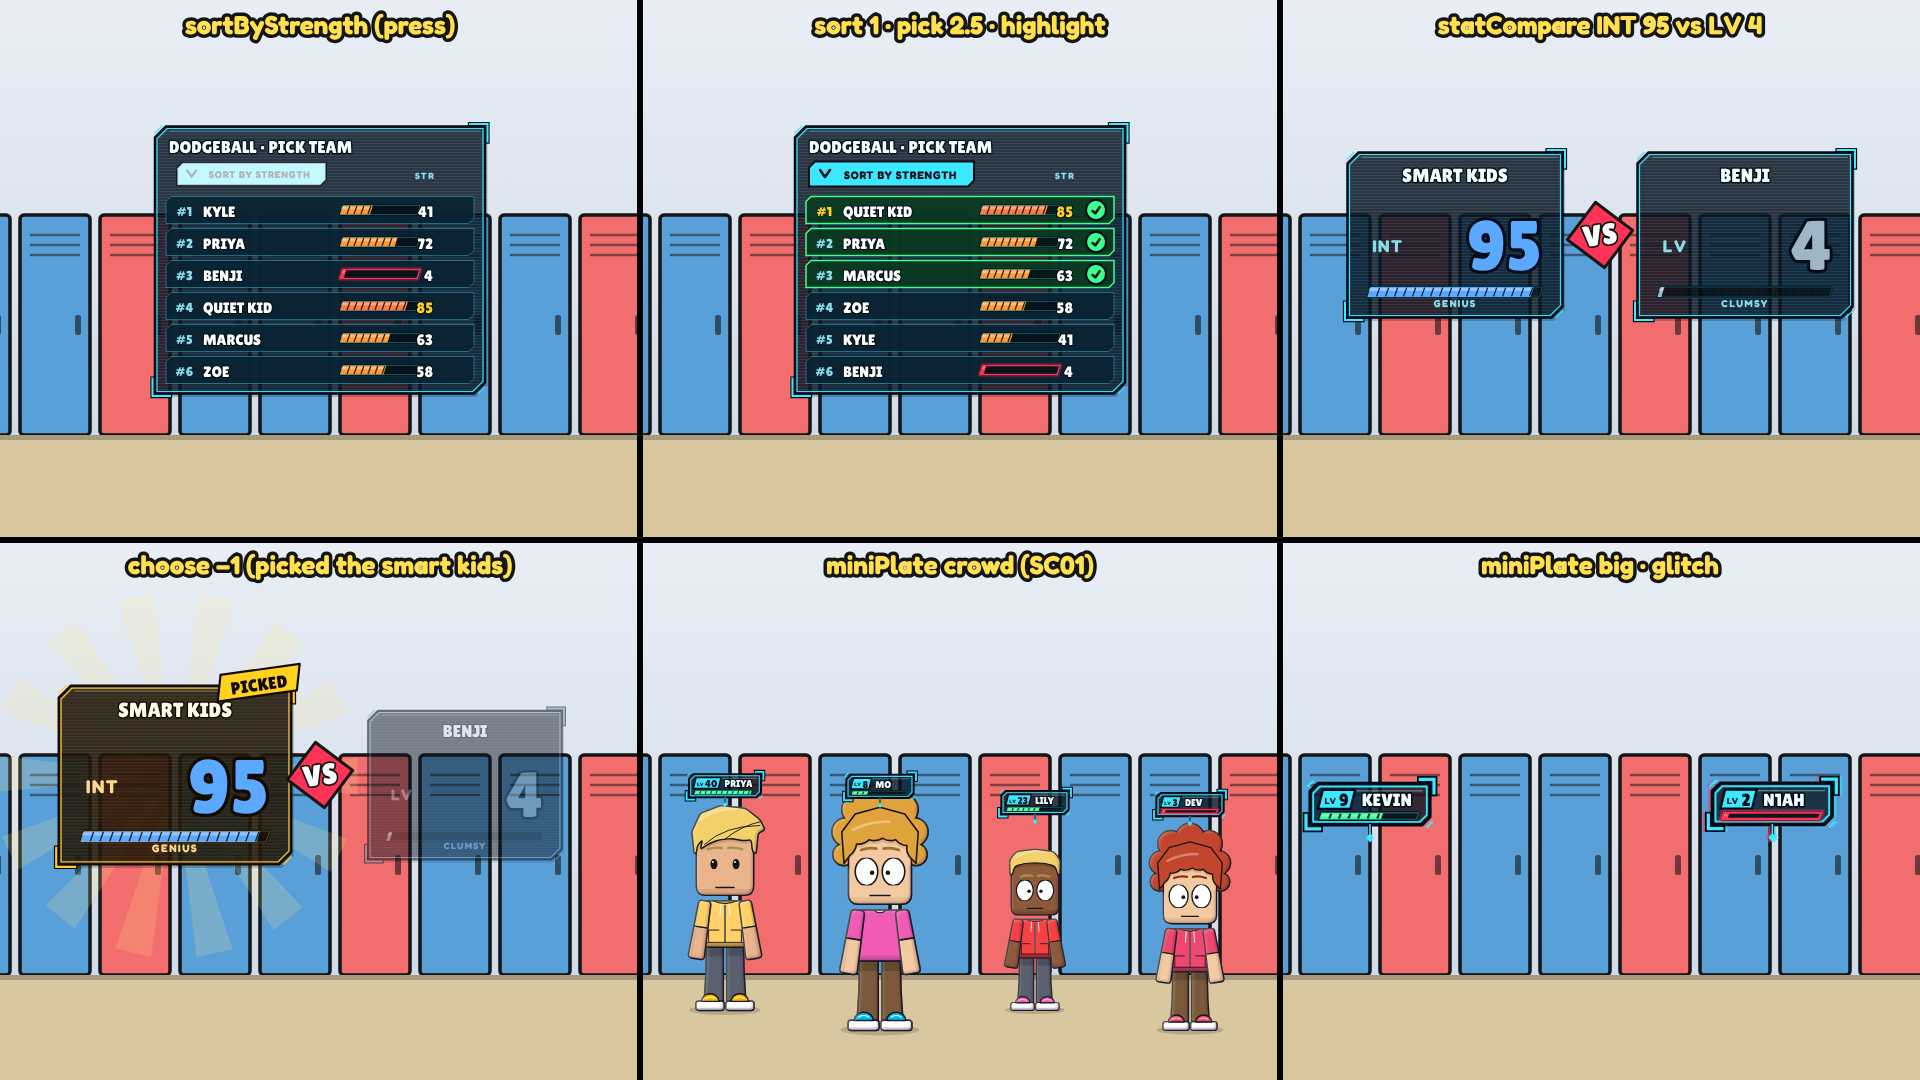
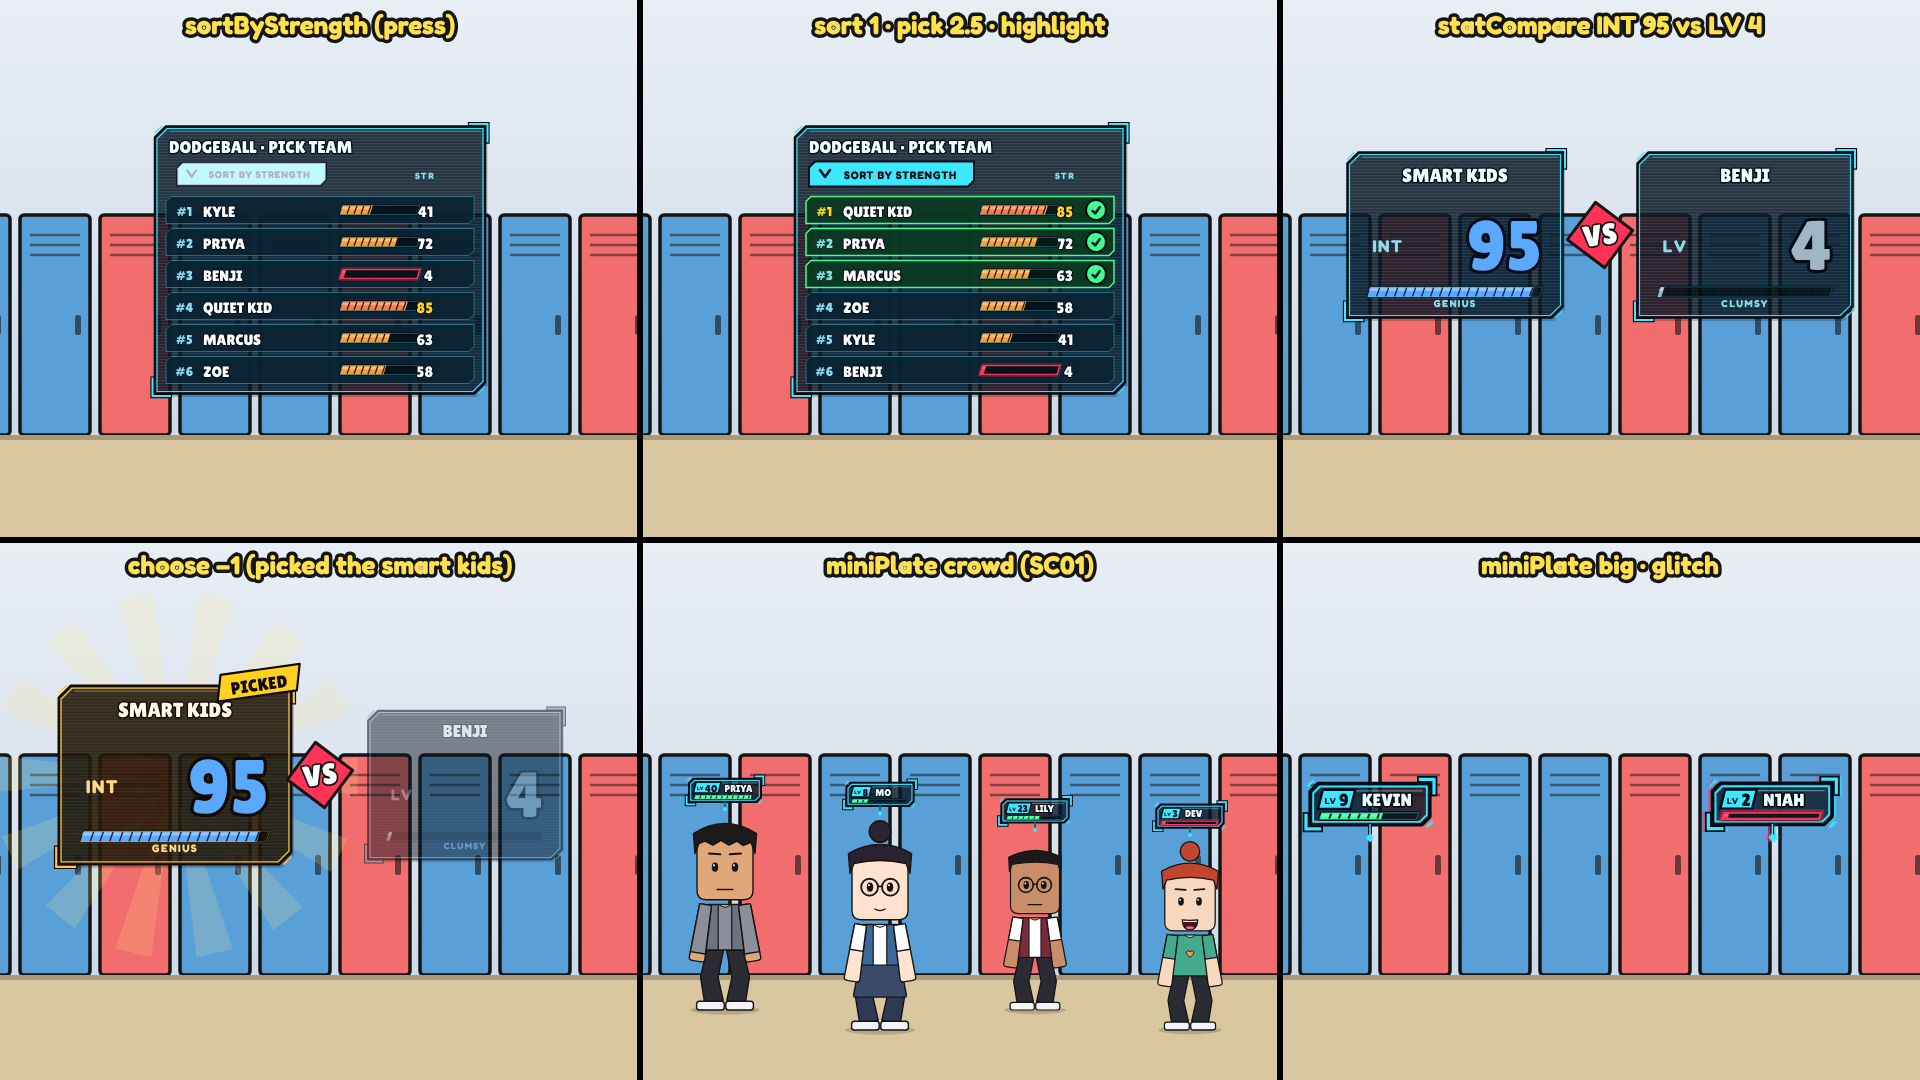
Stats: HUD plates use the cast's real head anchors; sheets with real cast
Claude-Session: https://claude.ai/code/session_01KRjzSfrZpgfkUyxGDDGG7C

Changed region(s): [[0.3438, 0.7028, 0.5625, 0.9778], [0.5938, 0.7333, 0.6562, 0.9472]]

diff --git a/stats/rig/cast.js b/stats/rig/cast.js
@@ -264,6 +264,13 @@ function held(dsg, p, side, fn, grip = 236, layer) {
   return { svg: fn(h[0], h[1]), layer: layer || layerFor(viewOf(p)) };
 }
 const bentArms = (p) => !!(p.bendL || p.bendR);
+// default arm angle + elbow bend for a held prop: front / back view use `side` (+1 = armR); the side view uses the near arm (armL),
+// where + bends forward. Explicit pose fields always win.
+function armPose(p, side, front, sideView) {
+  if (viewOf(p) === 'side') return sideView ? { armL: sideView[0], bendL: sideView[1], ...p } : p;
+  return side < 0 ? { armL: front[0], bendL: front[1], ...p } : { armR: front[0], bendR: front[1], ...p };
+}
+const handSide = (p, side) => (viewOf(p) === 'side' ? -1 : side);
 
 // ================================================================= draw functions + options
 const draw = {};
@@ -313,17 +320,18 @@ draw.mom = (pose = {}) => {
   const props = [];
   if (pose.coffee) {
     const sip = pose.coffee === 'sip';
-    p = sip ? { armR: 140, bendR: 175, ...p } : { armR: 22, bendR: -128, ...p };
-    props.push(held(d, p, view === 'side' ? -1 : 1, (x, y) => X.coffeeMug({ x: x + (sip ? -10 : 0), y: y - 46, s: 0.62, t: pose.t || 0, steam: pose.asleep ? 0 : 1 }), 250));
+    p = sip ? armPose(p, 1, [140, 175], [120, 120]) : armPose(p, 1, [22, -128], [30, 80]);
+    props.push(held(d, p, handSide(p, 1), (x, y) => X.coffeeMug({ x: x + (sip ? -10 : 0), y: y - 46, s: 0.62, t: pose.t || 0, steam: pose.asleep ? 0 : 1 }), 250));
   }
   if (pose.phone) {
     const ear = pose.phone === 'ear';
-    p = ear ? (view === 'side' ? { armL: 150, bendL: 30, ...p } : { armL: 140, bendL: 175, ...p }) : { armL: 20, bendL: -126, ...p };
-    props.push(held(d, p, view === 'side' ? 1 : -1, (x, y) => X.phone({ x: x + (ear ? 6 : 0), y: y - (ear ? 40 : 60), s: 0.5, rot: ear ? 10 : -6, face: ear ? 'back' : (pose.phoneFace || 'back'), screen: pose.screen || null })));
+    p = ear ? armPose(p, -1, [140, 175], [160, 150]) : armPose(p, -1, [20, -126], [40, 70]);
+    const sv = viewOf(p) === 'side';
+    props.push(held(d, p, handSide(p, -1), (x, y) => X.phone({ x: x + (ear ? (sv ? 10 : 6) : 0), y: y - (ear ? (sv ? 110 : 40) : 60), s: 0.5, rot: ear ? (sv ? -10 : 10) : -6, face: ear ? 'back' : (pose.phoneFace || 'back'), screen: pose.screen || null })));
   }
   if (pose.pan) {
-    p = { armR: 70, bendR: -30, ...p };
-    props.push(held(d, p, view === 'side' ? -1 : 1, (x, y) => X.fryingPan({ x, y, s: 0.7, rot: 30 })));
+    p = armPose(p, 1, [70, -30], [80, 20]);
+    props.push(held(d, p, handSide(p, 1), (x, y) => X.fryingPan({ x, y, s: 0.7, rot: viewOf(p) === 'side' ? 0 : 30 })));
   }
   const flour = pose.flour ?? (pose.dayoff ? 0 : 0.5);
   return withState({ flour, tired, t: pose.t || 0 }, () => drawWith(d, p, props));
@@ -367,12 +375,12 @@ draw.max = (pose = {}) => {
   if (down) d = withUnder(d, (face, t, shade, v) => (v === 'front' ? L7.hoodDownBehind(MAX_COL, 'front') : ''));
   const props = [];
   if (pose.balloon) {
-    p = { armR: view === 'side' ? 70 : 34, ...p };
-    props.push(held(d, p, view === 'side' ? -1 : 1, (x, y) => X.dinoBalloon({ x, y, s: 1.3, t: pose.t || 0, string: 560 }), 236, 'front'));
+    p = armPose(p, 1, [34, 0], [50, 0]);
+    props.push(held(d, p, handSide(p, 1), (x, y) => X.dinoBalloon({ x, y, s: 1.3, t: pose.t || 0, string: 560 }), 236, 'front'));
   }
   if (pose.tablet) {
-    p = { armL: 30, armR: 30, bendL: -110, bendR: -110, ...p };
-    props.push({ svg: X.tablet({ x: turnOf(p) * 40, y: -440, s: 0.62, face: pose.tabletFace || 'screen', screen: pose.screen || null, glow: pose.glow ?? 1 }), layer: 'front' });
+    p = view === 'side' ? { armL: 40, bendL: 60, ...p } : { armL: 30, armR: 30, bendL: -110, bendR: -110, ...p };
+    props.push({ svg: X.tablet({ x: view === 'side' ? -170 : turnOf(p) * 40, y: -440, s: view === 'side' ? 0.5 : 0.62, face: view === 'side' ? 'back' : (pose.tabletFace || 'screen'), screen: pose.screen || null, glow: pose.glow ?? 1, rot: view === 'side' ? 0 : 0 }), layer: layerFor(view) });
   }
   return withState({ hoodDown: down, t: pose.t || 0 }, () => drawWith(d, p, props));
 };
@@ -401,16 +409,16 @@ draw.benji = (pose = {}) => {
   }
   if (pose.books) {
     const fall = pose.books === 'drop' ? clamp(pose.bookFall ?? 1, 0, 1) : 0;
-    p = { armL: 22, armR: 22, bendL: -116, bendR: -116, ...p };
-    props.push({ svg: X.bookStack({ x: turnOf(p) * 30 + (view === 'side' ? -120 : 0), y: -330, s: 0.62, n: 5, fall, t: pose.t || 0 }), layer: layerFor(view) });
+    p = view === 'side' ? { armL: 34, bendL: 70, ...p } : { armL: 22, armR: 22, bendL: -116, bendR: -116, ...p };
+    props.push({ svg: X.bookStack({ x: turnOf(p) * 30 + (view === 'side' ? -150 : 0), y: -330, s: 0.62, n: 5, fall, t: pose.t || 0 }), layer: layerFor(view) });
   }
   if (pose.potato) {
-    p = { armL: 30, armR: 30, bendL: -100, bendR: -100, ...p };
-    props.push({ svg: X.potatoBattery({ x: turnOf(p) * 30 + (view === 'side' ? -120 : 0), y: -350, s: 0.42, glow: pose.glow ?? 0.3, t: pose.t || 0, sign: false }), layer: layerFor(view) });
+    p = view === 'side' ? { armL: 40, bendL: 60, ...p } : { armL: 30, armR: 30, bendL: -100, bendR: -100, ...p };
+    props.push({ svg: X.potatoBattery({ x: turnOf(p) * 30 + (view === 'side' ? -190 : 0), y: -350, s: 0.42, glow: pose.glow ?? 0.3, t: pose.t || 0, sign: false }), layer: layerFor(view) });
   }
   if (pose.map) {
-    p = { armL: 34, armR: 34, bendL: -80, bendR: -80, ...p };
-    props.push({ svg: X.fairMap({ x: turnOf(p) * 30 + (view === 'side' ? -130 : 0), y: -440, s: 0.62, fold: view === 'side' ? 0.7 : 0, back: view === 'back' }), layer: layerFor(view) });
+    p = view === 'side' ? { armL: 60, bendL: 40, ...p } : { armL: 34, armR: 34, bendL: -80, bendR: -80, ...p };
+    props.push({ svg: X.fairMap({ x: turnOf(p) * 30 + (view === 'side' ? -220 : 0), y: -440, s: view === 'side' ? 0.5 : 0.62, fold: view === 'side' ? 0.8 : 0, back: view === 'back' }), layer: layerFor(view) });
   }
   return withState({ laces: pose.laces !== false, t: pose.t || 0 }, () => drawWith(d, p, props));
 };
@@ -423,7 +431,7 @@ draw.tank = (pose = {}) => {
   const view = viewOf(pose);
   let d = D.tank, p = pose;
   if (pose.shy) {
-    p = { armL: 16, armR: 16, bendL: -120, bendR: -112, headRot: 6, lean: 3, ...p };
+    p = view === 'side' ? { armL: 20, bendL: 70, headRot: 6, lean: 3, ...p } : { armL: 16, armR: 16, bendL: -120, bendR: -112, headRot: 6, lean: 3, ...p };
     p.face = faceWith(p.face || 'nervous', { brows: { L: [-46, 8], R: [-46, 8] }, eyes: { look: [0.2, 0.6], pupil: 1.1 }, fx: ['blush'], mouth: (p.face && p.face.mouth) || undefined });
     if (!p.face.mouth) delete p.face.mouth;
   }
@@ -436,12 +444,12 @@ draw.tank = (pose = {}) => {
     rider = draw.you({ x: c.x, y: c.y, s: c.s, legL: 74, legR: 74, kneeL: 80, kneeR: 80, armL: 40, armR: 150, face: 'joy', shadow: false, flip: false, ...rp, view: 'front' });
   }
   if (pose.lunch) {
-    p = { armR: view === 'side' ? 20 : 14, ...p };
-    props.push(held(d, p, view === 'side' ? -1 : 1, (x, y) => X.lunchBag({ x, y: y + 6, s: 0.62, name: pose.lunchName || '' }), 250));
+    p = armPose(p, 1, [14, 0], [20, 0]);
+    props.push(held(d, p, handSide(p, 1), (x, y) => X.lunchBag({ x, y: y + 6, s: 0.62, name: pose.lunchName || '' }), 250));
   }
   if (pose.sandwich || pose.ketchupLunch) {
-    p = { armR: 22, bendR: -118, ...p };
-    props.push(held(d, p, view === 'side' ? -1 : 1, (x, y) => X.sandwich({ x: x - 10, y: y - 30, s: 0.62, ketchup: !!pose.ketchupLunch, bite: pose.bite || 0 }), 250, 'front'));
+    p = armPose(p, 1, [22, -118], [30, 80]);
+    props.push(held(d, p, handSide(p, 1), (x, y) => X.sandwich({ x: x - 10, y: y - 30, s: 0.62, ketchup: !!pose.ketchupLunch, bite: pose.bite || 0 }), 250, 'front'));
   }
   return drawWith(d, p, props) + rider;
 };
@@ -467,12 +475,12 @@ draw.teacher = (pose = {}) => {
     props.push({ svg: X.pointer({ x: h[0], y: h[1], s: 0.9, rot }), layer: layerFor(view) });
   }
   if (pose.papers) {
-    p = { armL: 24, bendL: -110, ...p };
-    props.push(held(d, p, view === 'side' ? 1 : -1, (x, y) => X.paperStack({ x: x + (view === 'side' ? -40 : 40), y: y - 30, s: 0.6, rot: -8 }), 236, 'front'));
+    p = armPose(p, -1, [24, -110], [36, 70]);
+    props.push(held(d, p, handSide(p, -1), (x, y) => X.paperStack({ x: x + (view === 'side' ? -40 : 40), y: y - 30, s: 0.6, rot: -8 }), 236, 'front'));
   }
   if (pose.redPen) {
-    p = { armR: 30, bendR: -60, ...p };
-    props.push(held(d, p, view === 'side' ? -1 : 1, (x, y) => X.redPen({ x, y: y - 10, s: 0.8, rot: -50 })));
+    p = armPose(p, 1, [30, -60], [40, 60]);
+    props.push(held(d, p, handSide(p, 1), (x, y) => X.redPen({ x, y: y - 10, s: 0.8, rot: -50 })));
   }
   return withState({ glare, t: pose.t || 0 }, () => drawWith(d, p, props));
 };
@@ -483,8 +491,8 @@ draw.lunchLady = (pose = {}) => {
   let p = pose;
   const props = [];
   if (pose.ladle !== false) {
-    p = { armR: 40, bendR: -40, ...p };
-    props.push(held(D.lunchLady, p, view === 'side' ? -1 : 1, (x, y) => X.ladle({ x, y: y + 10, s: 0.55, rot: -10 })));
+    p = armPose(p, 1, [40, -40], [40, 40]);
+    props.push(held(D.lunchLady, p, handSide(p, 1), (x, y) => X.ladle({ x, y: y + 10, s: 0.55, rot: -10 })));
   }
   return drawWith(D.lunchLady, p, props);
 };

diff --git a/stats/tools/hud_sheet.js b/stats/tools/hud_sheet.js
@@ -64,7 +64,7 @@ const hero = (t, pose = {}, act = {}) => K.actor('you', t, { s: 0.5, ...pose }, 
 const STATS_CAST = !!(K.draw.grandpa && K.draw.benji && K.draw.tank);   // the new cast is in place
 function person(key, i, pose) {
   if (STATS_CAST && K.draw[key]) { try { return K.actor(key, pose.t || 0, ['kid', 'adult'].includes(key) ? { i, ...pose } : pose); } catch (e) { /* fall through */ } }
-  const kid = ['benji', 'max', 'kid', 'tank'].includes(key);
+  const kid = ['benji', 'max', 'kid', 'tank'].includes(key) && K.draw.humanKid;
   return (kid ? K.draw.humanKid : K.draw.adult)(i, { ...pose, s: (pose.s || 0.5) * (key === 'max' ? 0.72 : key === 'tank' ? 1.22 : 1) });
 }
 // tiles: svg strings or { svg, vb: [x, y, w, h] } (a crop of the 1920x1080 frame); labels at the top (or bottom with lblBottom)
@@ -155,7 +155,7 @@ SHEETS.overview = () => {
   const c = () => {   // SC08 fair: overload
     let o = bgFair();
     const faces = [];
-    for (let i = 0; i < 5; i++) { const p = cast('adult', i + 2, { x: 250 + i * 360, y: 1000, s: 0.5, t }); o += p.svg; faces.push({ x: p.head.x, y: p.head.y + 75, r: 66 }); }
+    for (let i = 0; i < 5; i++) { const p = cast('adult', i + 2, { x: 250 + i * 360, y: 1000, s: 0.5, t }); o += p.svg; faces.push({ x: p.head.x, y: p.head.y + 95, r: 66 }); }
     o += hero(t, { x: 960, y: 1090, s: 0.6, face: 'scared' });
     o += H.numbersFlood({ t, k: 0.68, faces });
     o += H.questArrow({ x: 960, y: 1020, t, glitch: 1, s: 0.9 });
@@ -239,11 +239,11 @@ SHEETS.overload = () => {
   const fair = (k) => {
     let o = bgFair();
     const faces = [];
-    for (let i = 0; i < 5; i++) { const x = 250 + i * 360, y = 1000; o += K.draw.adult(i + 2, { x, y, s: 0.5 }); faces.push({ x, y: y - 0.5 * 1043 + 105, r: 66 }); }
+    for (let i = 0; i < 5; i++) { const p = cast('adult', i + 2, { x: 250 + i * 360, y: 1000, s: 0.5, t }); o += p.svg; faces.push({ x: p.head.x, y: p.head.y + 95, r: 66 }); }
     return o + H.numbersFlood({ t, k, faces });
   };
   const hudLayer = (tt = t) => H.hudFrame({ t: tt }) + H.plateFor('tank', { x: 520, y: 520, t: tt }) + H.plateFor('mom', { x: 1350, y: 560, t: tt }) + H.xpBar({ t: tt, value: 0.7, level: 20 });
-  const bench = () => { let o = bgFair(); o += hero(t, { x: 760, y: 1000, s: 0.55, face: 'sad' }) + person('grandpa', 2, { x: 1160, y: 1000, s: 0.55, t }); return o; };
+  const bench = () => { let o = bgFair(); o += hero(t, { x: 760, y: 1000, s: 0.55, face: 'sad' }) + person('grandpa', 2, { x: 1160, y: 1000, s: 0.5, t }); return o; };
   const tiles = [
     fair(0.3), fair(0.65), fair(1),
     bench() + H.hudGlitch(hudLayer(), t, 0.6),
@@ -262,7 +262,7 @@ SHEETS.montage = () => {
   const gym = () => bgHall();
   const crowd = () => {
     let o = bgHall();
-    for (let i = 0; i < 6; i++) { const x = 180 + i * 310, y = 980 - (i % 2) * 40, s = 0.42 + (i % 3) * 0.04; o += K.draw.humanKid(i, { x, y, s }); o += H.miniPlate({ x, y: y - 880 * s - 6, s: 0.9, t, name: ['JAKE', 'PRIYA', 'MO', 'LILY', 'DEV', 'SAM'][i], level: [12, 40, 8, 23, 3, 61][i], hp: [0.8, 0.95, 0.3, 0.6, 0.08, 1][i] }); }
+    for (let i = 0; i < 6; i++) { const p = cast('kid', i, { x: 180 + i * 310, y: 980 - (i % 2) * 40, s: 0.42 + (i % 3) * 0.04, t }); o += p.svg + H.miniPlate({ ...p.head, s: 0.9, t, name: ['JAKE', 'PRIYA', 'MO', 'LILY', 'DEV', 'SAM'][i], level: [12, 40, 8, 23, 3, 61][i], hp: [0.8, 0.95, 0.3, 0.6, 0.08, 1][i] }); }
     return o;
   };
   const tiles = [

diff --git a/stats/docs/HUD.md b/stats/docs/HUD.md
@@ -36,9 +36,10 @@ Rebuild: `node tools/hud_sheet.js` (see the end).
   when you want it crisp and constant-size (compute the head's screen point yourself), or **inside** it at world coords to
   have it zoom with the camera (strokes scale too — fine for push-ins).
 - **Anchors.** Over-head helpers (`statPlate`, `miniPlate`, `heroPlate`, `lieMeter`) take `(x, y)` = **the top of the head**;
-  the plate floats `lift` px above with its tether. `H.overHead(who, x, y, s, dy)` → `{ x, y }` from an actor's feet and scale.
-  Its head-top table `H.HEAD_TOP` is **approximate** (the stats cast was drawn in parallel; `you` is measured, 960 body units):
-  use the head anchors in `docs/CAST.md` when that exists, or pass `dy` / your own y.
+  the plate floats `lift` px above with its tether. Get that point with `H.overHead(who, x, y, s, dy, pose)` — it asks the cast's
+  `require('../rig/cast').headTop(key, pose)` (exact: sizes, hoods, Grandpa's day-off hat, Biscuit `pose: 'sit'|'walk'|'beg'|'sleep'`,
+  kid/adult variant `i`), passing the same pose fields you give `actor()` (`lift`, `bodyY`, `headY`, `hood`, `dayoff`, `pose`, `i`).
+  `H.HEAD_TOP` (body units at s 1) is only the fallback. Face centres (for `numbersFlood` faces) ≈ head top + 190·s.
 - **Time.** Animated helpers take `k` (0..1 pop-in / progress, overshoot built in; running `k` back to 0 folds them away), `out`
   or `fade` (0..1 leave), `age` (seconds since an event) and/or `t` (the clock: bob, blink, sheen, radar sweep). Derive them from
   the voice: `k: seg(t, L(id).word('Hungry').t0 - 0.1, L(id).word('Hungry').t0 + 0.35)`, `age: t - L('05.8').a`.
@@ -114,8 +115,12 @@ and dissolve while the glass warms from cyan to honey; 0.45–0.6 a soft flash, 
 brackets, no cut corners), a heart badge pops; 0.5–0.9 **BIG BROTHER** fades in letter by letter (rising, settling); warm
 glow + golden motes drift up; the heart beats. No level, no numbers. Give the whole reveal **3–4 s** (see the recipe).
 
-### `H.overHead(who, x, y, s = 0.5, dy = 0)` → `{ x, y }`
-Head-top point for an actor drawn with feet `(x, y)` and scale `s` (`who` a cast key or a number = body-unit height).
+### `H.overHead(who, x, y, s = 0.5, dy = 0, pose = {})` → `{ x, y }`
+Head-top point (+6 px of air) for a cast member drawn with feet `(x, y)` and scale `s`: delegates to `rig/cast.js`
+`headTop(key, { ...pose, x, y, s })` (all cast keys: you, mom, grandpa, max, biscuit, benji, tank, teacher (`krump` alias),
+lunchLady, coach, neighbor, fairWorker, kid (pose.i), adult (pose.i)); falls back to `H.HEAD_TOP`. `who` may be a number = head
+height in body units. Example: `H.plateFor('tank', { ...H.overHead('tank', tx, ty, 0.5), s: 0.95, k, t })`;
+Biscuit begging: `H.overHead('biscuit', dx, dy, 0.6, 0, { pose: 'beg' })`.
 
 ---
 
@@ -390,5 +395,5 @@ node tools/hud_sheet.js --sheet plates,motion    # some (overview plates objects
 node tools/hud_sheet.js --sheet xp --out /tmp/x.png
 node tools/hud_sheet.js --perf                   # JS + browser timings
 ```
-The sheets use stand-in humans for Mom / Grandpa / Max / Benji / Tank / Mrs. Krump until the stats cast is in `rig/cast.js`
-(the tool switches to the real keys automatically once `grandpa`, `benji` and `tank` exist).
+The sheets draw the real stats cast from `rig/cast.js` (they fall back to generic humans if `grandpa` / `benji` / `tank` are missing)
+and place every plate with `H.overHead`.
